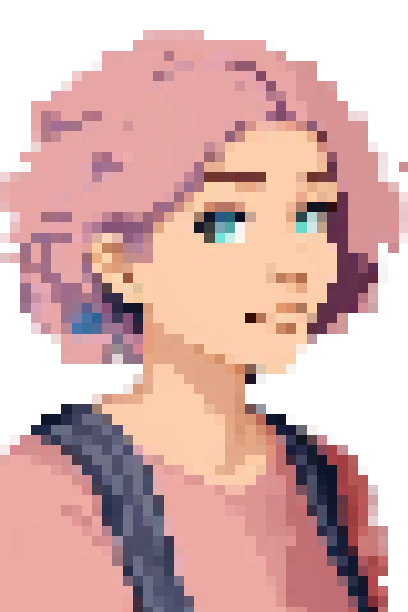
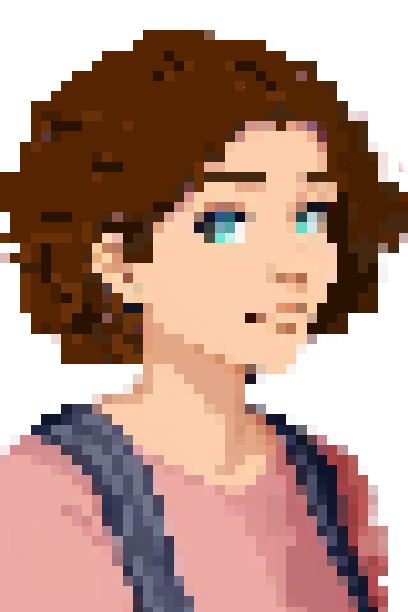
better hair on pfp, minor updates to research and linux

Changed region(s): [[0.0, 0.031, 1.0, 0.6209]]

diff --git a/research.html b/research.html
@@ -28,18 +28,18 @@
                 </div>
                 <div class="column-84 w-col w-col-4">
                     <img
-                        src="research.png"
+                        src="repair.png"
                         loading="lazy"
-						style="width:368px;height:207px;position:absolute;right:0;bottom:0;"
-                        class="image-11"
+						style="width:300px;height:207px;position:absolute;right:0;bottom:0;"
+                        class="image-10"
                     />
                 </div>
                 <div class="column-84 w-col w-col-6">
                     <img
-                        src="research2.png"
+                        src="repair2.png"
                         loading="lazy"
-						style="width:368px;height:207px;position:absolute;right:140px;bottom:20px;"
-                        class="image-10"
+						style="width:250px;height:250px;position:absolute;right:280px;bottom:20px;"
+                        class="image-11"
                     />
                 </div>
             </div>

diff --git a/linux.html b/linux.html
@@ -44,7 +44,7 @@
                 </div>
             </div>
             <div class="horizontal-bar green">
-                        <p class="centered"><strong>Built with for style and usability</strong> Using Hyprland, AGS, and Kitty, on a bleeding-edge base of ArchLinux</p>
+                        <p class="centered"><strong>Built with style and usability FIRST.</strong> Using Hyprland, AGS, and Kitty, on a bleeding-edge base of ArchLinux</p>
                         <p><a href="https://adabit.org/adabit.iso" target="_blank" class="nav-link">Download</a></p>
                     </div>
         </main>
